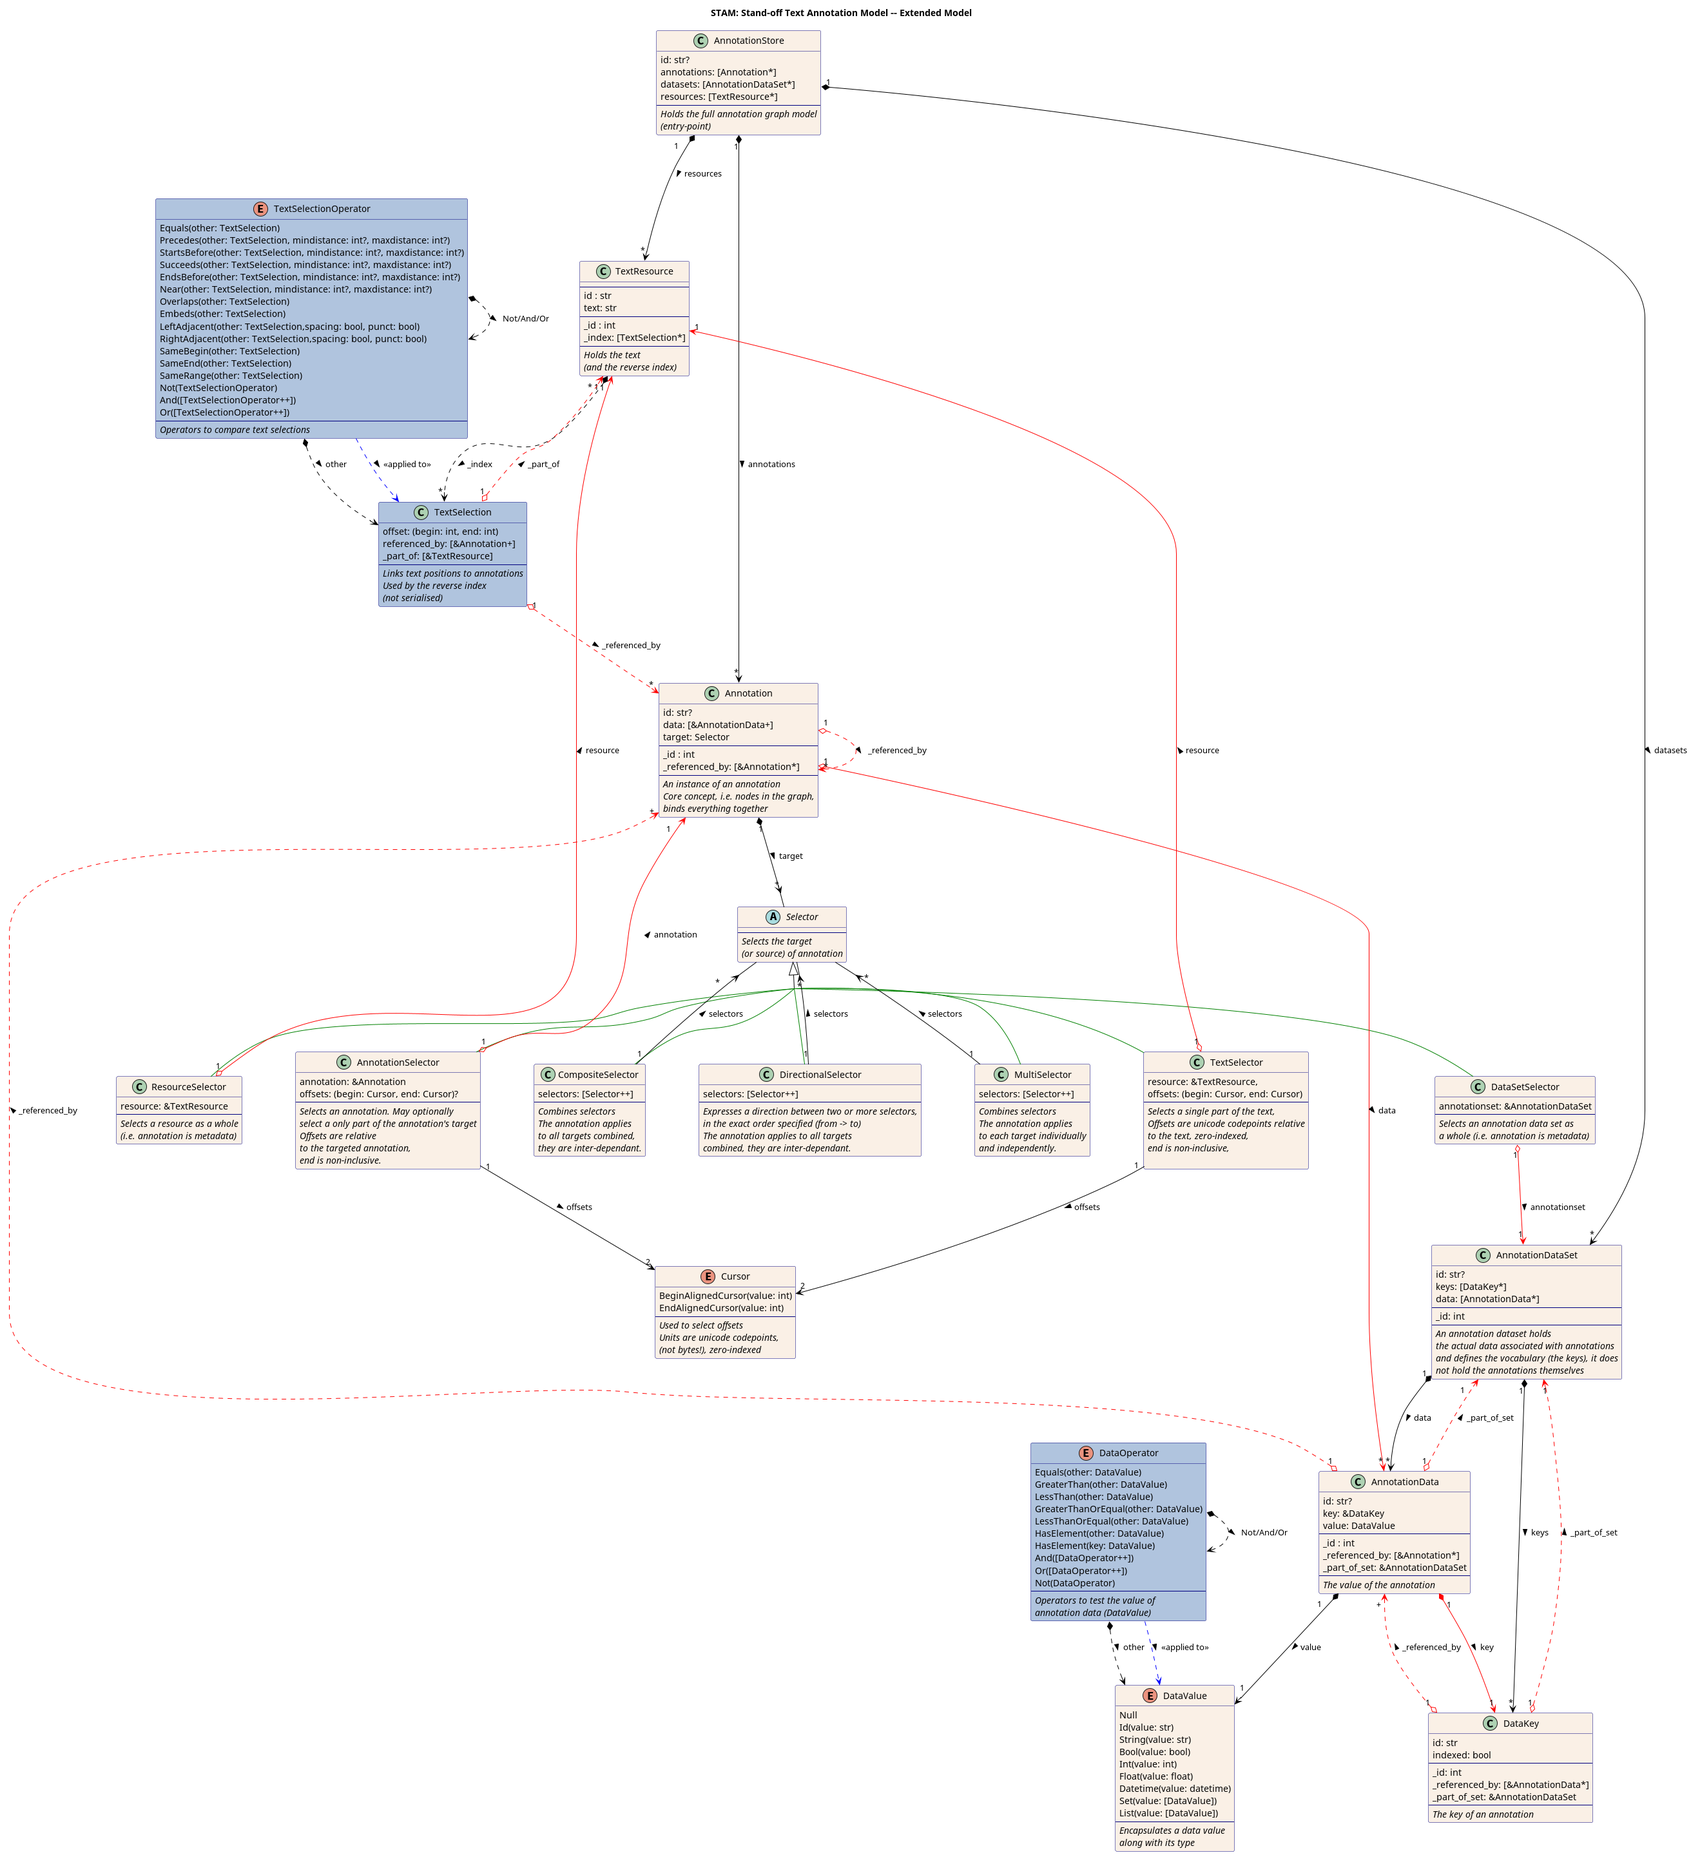
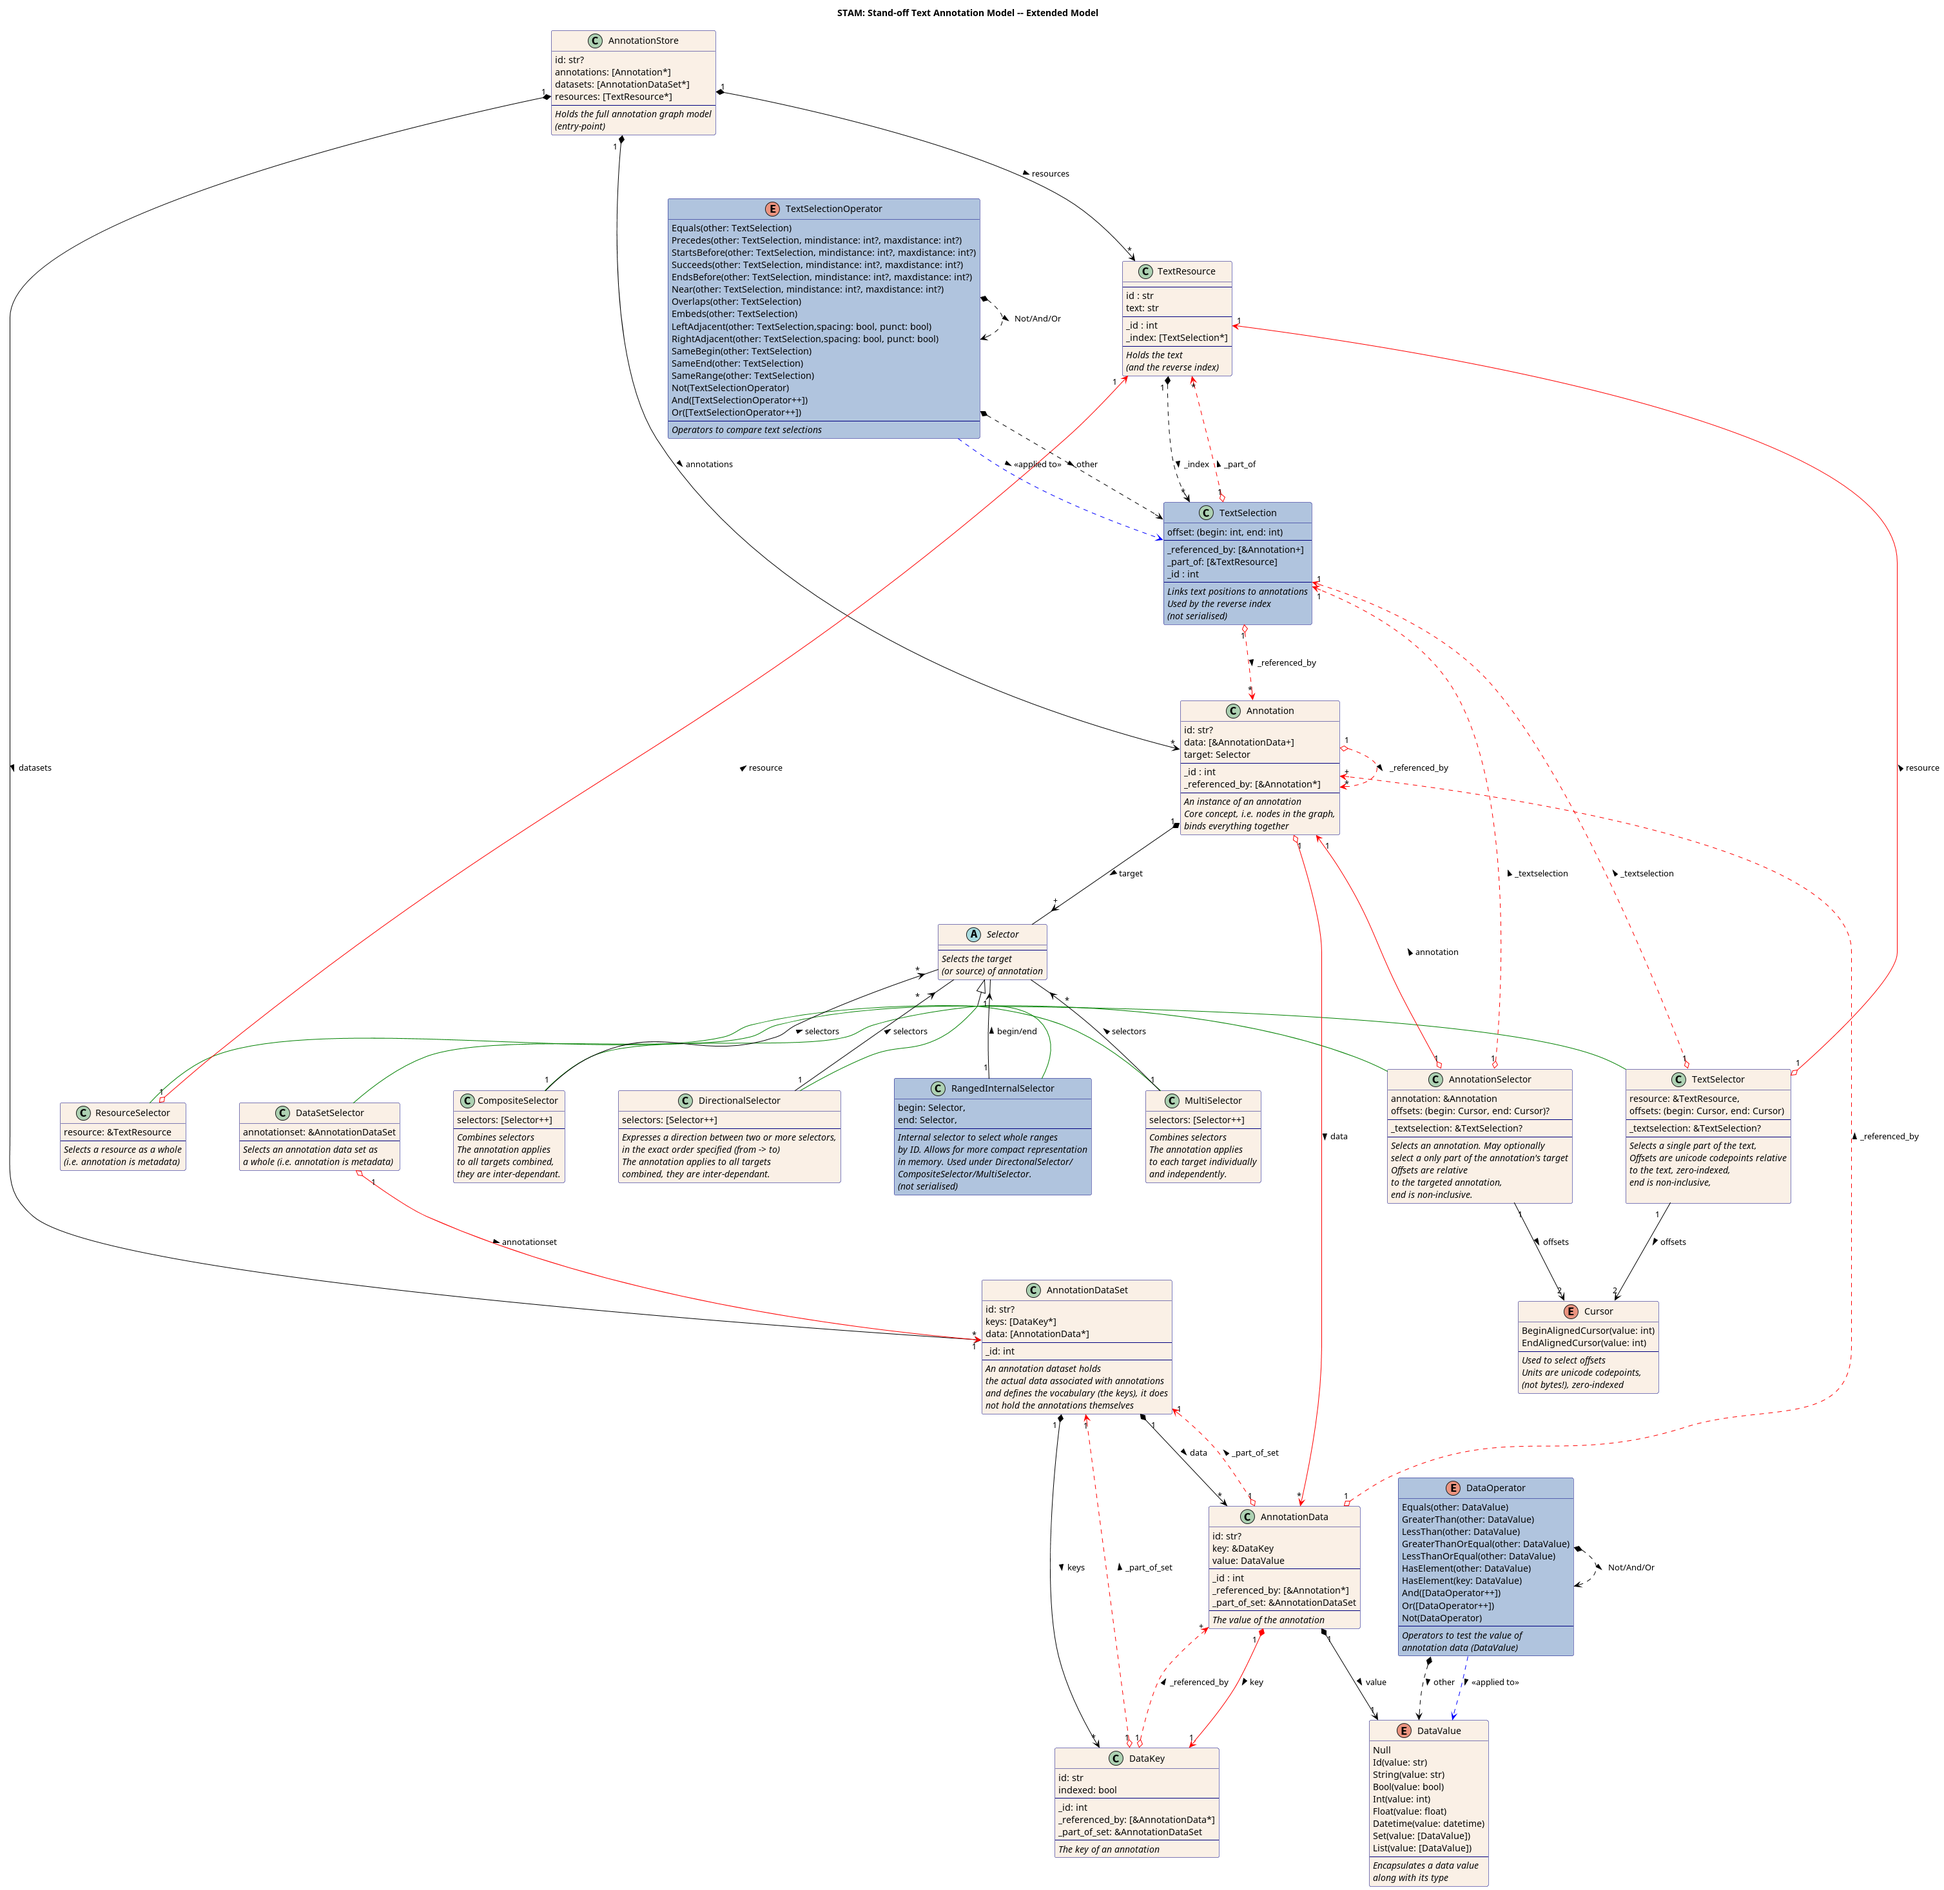
Adapted specification to improve the space-efficiency of complex selectors (#11) and to disallow nesting complex selectors (#10)

diff --git a/README.md b/README.md
@@ -281,13 +281,20 @@ There are multiple types of selectors:
   of annotation can be interpreted as *metadata*.
 * ``DataSetSelector``  - A selector pointing to an annotation data set (`AnnotationDataSet`). These type
   of annotation can be interpreted as *metadata*.
-* ``AnnotationSelector``  - A selector pointing to one or more other annotations. This we call higher-order annotation and is very common in STAM models. If the annotation that is being targeted eventually refers to a text (`TextSelector`), then offsets **MAY** be specified that select a subpart of this text. These offsets are now *relative* to the annotation. Internally, the implementation can always efficiently resolve these to absolute offsets on the resource. The use of `AnnotationSelector` has one important constraint: the graph of all annotations referring to other annotations  *MUST* be acyclic; i.e. it can't end up in a recursive loop of annotations referencing each-other. Implementations *SHOULD* check this.
-* ``MultiSelector``  - A selector that consists of multiple other selectors to select multiple targets. This *MUST* be interpreted as the annotation applying to each target *individually*, without any relation between the different targets. Leaving one out or adding one *MUST NOT* affect the interpretation of any of the others nor of the whole. This is a way to express multiple annotations 
+* ``AnnotationSelector``  - A selector pointing to another annotation. This we call higher-order annotation and is very common in STAM models. If the annotation that is being targeted eventually refers to a text (`TextSelector`), then offsets **MAY** be specified that select a subpart of this text. These offsets are now *relative* to the annotation. Internally, the implementation can always efficiently resolve these to absolute offsets on the resource. The use of `AnnotationSelector` has one important constraint: the graph of all annotations referring to other annotations  *MUST* be acyclic; i.e. it can't end up in a recursive loop of annotations referencing each-other. Implementations *SHOULD* check this.
+* ``MultiSelector``  - A selector that consists of multiple other selectors (subselectors) to select multiple targets. This *MUST* be interpreted as the annotation applying to each target *individually*, without any relation between the different targets. Leaving one out or adding one *MUST NOT* affect the interpretation of any of the others nor of the whole. This is a way to express multiple annotations 
 as one, a more condensed representation. Do note that in STAM, even if you don't use a `MultiSelector` but use multiple annotations, you still benefit from the fact that these multiple annotations may share the same `AnnotationData`, and can therefore easily retrieve all annotations that share particular data.
-* ``CompositeSelector``  - A selector that consists of multiple other selectors, used to select more complex targets that transcend the idea of a single simple selection. This *MUST* be interpreted as the annotation applying equally to the conjunction as a whole, its parts being inter-dependent and for any of them it goes that they *MUST NOT* be omitted for the annotation to make sense. The interpretation of the whole relies on all its parts. Note that the order of the selectors is not significant (use a `DirectionalSelector` instead if they are). When there is no dependency relation between the selectors, you *MUST* simply use multiple `Annotation`s or a `MultiSelector` instead. When grouping things into a set, do use a `CompositeSelector`, as the set as a whole is considered a composite entity.
+* ``CompositeSelector``  - A selector that consists of multiple other selectors (subselectors), these are used to select more complex targets that transcend the idea of a single simple selection. This *MUST* be interpreted as the annotation applying equally to the conjunction as a whole, its parts being inter-dependent and for any of them it goes that they *MUST NOT* be omitted for the annotation to make sense. The interpretation of the whole relies on all its parts. Note that the order of the selectors is not significant (use a `DirectionalSelector` instead if they are). When there is no dependency relation between the selectors, you *MUST* simply use multiple `Annotation`s or a `MultiSelector` instead. When grouping things into a set, do use a `CompositeSelector`, as the set as a whole is considered a composite entity.
 * ``DirectionalSelector``  - Another selector that consists of multiple other
   selectors, but with an explicit direction (from -> to), used to select more
   complex targets that transcend the idea of a single simple selection.
+
+The so-called complex selectors (`MultiSelector`, `CompositeSelector` and
+`DirectionalSelector`) *MUST NOT* be nested, you *MUST* use one or more of the
+simple selectors (`TextSelector`,`ResourceSelector`,
+`DataSetSelector`,`AnnotationSelector`)  as subselector (or the internal
+`RangedInternalSelector` which will be described later on as part of the
+extended model).
 
 ### Class: AnnotationData
 
@@ -467,6 +474,17 @@ We discern the following variants, they are to be considered *RECOMMENDED*:
  * `And([DataOperator++])` - Conjunction combining multiple tests
  * `Or([DataOperator++])` - Disjunction combining multiple tests
  * `Not(DataOperator)` - Unary operator that inverts the logic.
+
+
+### Class: RangedInternalSelector
+
+This selector is used internally as subselector under one of the so-called complex selectors (i.e. `MultiSelector`, `DirectionalSelector`, `CompositeSelector`). It point to two targets via two selectors, a begin target and an end target. Both selectors under this selector *MUST* be of the exact same type and *MUST* be a `TextSelector`, `ResourceSelector`, `AnnotationSelector` or `DataSetSelector`, complex selectors are not allowed.
+
+The begin selector and end selector effectively mark *a range over internal identifiers*. It has to be noted that this *MUST NOT* be interpreted as a range in text ordering, it is merely a range over an arbitrary internal memory layout and carries no inherent meaning. The only function of this selector is to safe memory. Say you have a MultiSelector pointing to 100,000 targets, i.e. via 100,000 subselectors. If those targets are consecutive with respect to their internal identifier, then a single `RangerInternalSelector` suffices as subselector.
+
+It is not expressed in canonical serialisation.  Implementations can choose to implement this selector differently as they see fit. Implementations *SHOULD* automatically create `RangedInternalSelector`s when parsing data, if possible.
+
+There are situations in which a `RangedInternalSelector` can not be used. For a begin/end `TextSelector` (pointing to a `TextSelection`) it only works if offset information is already in the `TextSelection`, which is the case if and only if `BeginAlignedCursor`s are used. An `AnnotationSelector`may also carry offset information, but these are relative offsets and can therefore not be compacted to a `RangedInternalSelector`. 
 
 ### Reverse indices
 
